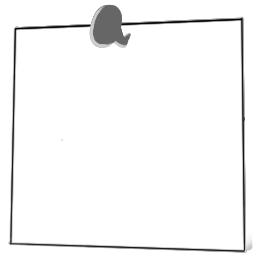
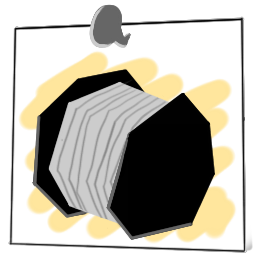
New images. Images for fish and fishing line. Fish images displayed in results.

diff --git a/phonegap/gofish/www/partials/results.html b/phonegap/gofish/www/partials/results.html
@@ -13,7 +13,7 @@
 				<p>{{totals.weight | number:2}}kg {{fish.name}} [+{{totals.value}}]</p>
 				<p>Largest {{name}}: {{max[name].weight}}kg measuring {{max[name].length}}cm [+{{max[name].value}}]</p>
 			</div>
-			<img class="right centred-v" ng-src="./img/bait/equipped.png"></img>
+			<img class="right centred-v" ng-src="./img/fish/{{name}}.png"></img>
 		</div>
 
 		<div ng-click="exit()" class="small-sign centred-image">

diff --git a/phonegap/gofish/www/js/directives/results.js b/phonegap/gofish/www/js/directives/results.js
@@ -25,7 +25,7 @@ goFish.directive("results", [function(){
 						}
 					} else {
 						$scope.parsed[caught.name] = {"weight":caught.weight, "value":caught.value};
-						$scope.max[caught.name] = {"weight":caught.weight, "value":caught.value};
+						$scope.max[caught.name] = {"weight":caught.weight, "value":caught.value, "length":caught.length};
 					}
 				};
 			};
